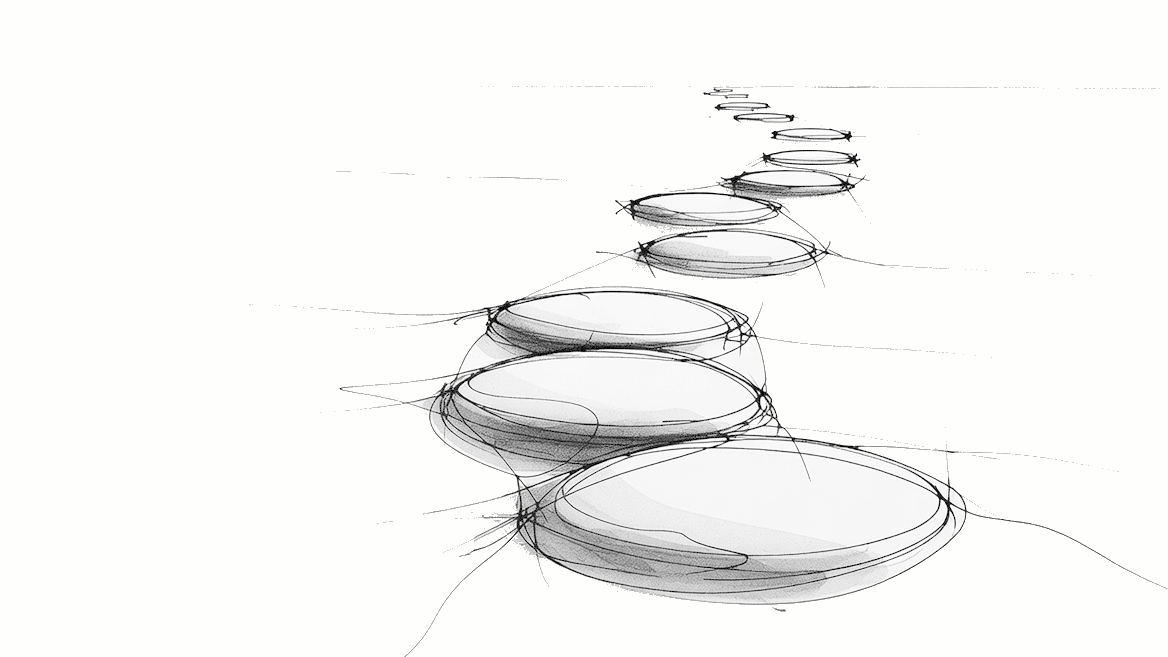
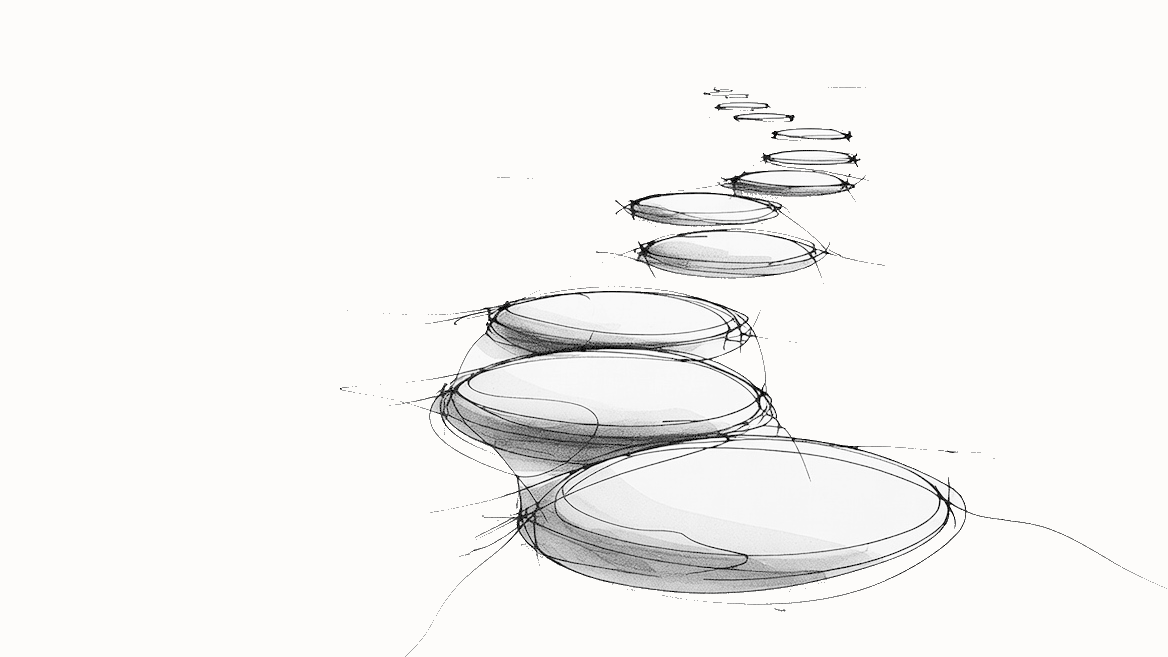
Add V4V essay with hero image, fix flood fill on 3 heroes
- V4V essay draft with hero image (build-it-anyway.png)
- Fix flood fill background color (#FDFCFA) on:
  - limits-of-persuasion.png
  - sovereignty-without-sacrifice.png
  - why-bitcoin-sales-is-different.png

diff --git a/content/essays/V4V can't win. Build it anyway.md b/content/essays/V4V can't win. Build it anyway.md
@@ -7,6 +7,8 @@ topics: [bitcoin, freedom-tech, go-to-market]
 tags: []
 featured: false
 draft: false
+hero_image: images/essays/build-it-anyway.png
+hero_alt: A hand placing a poker chip down
 ---
 
 There's an idea I find compelling: what if you could pay creators directly instead of watching ads? What if the money currently flowing to Big Tech through your attention and data went to the people actually making things you value?
